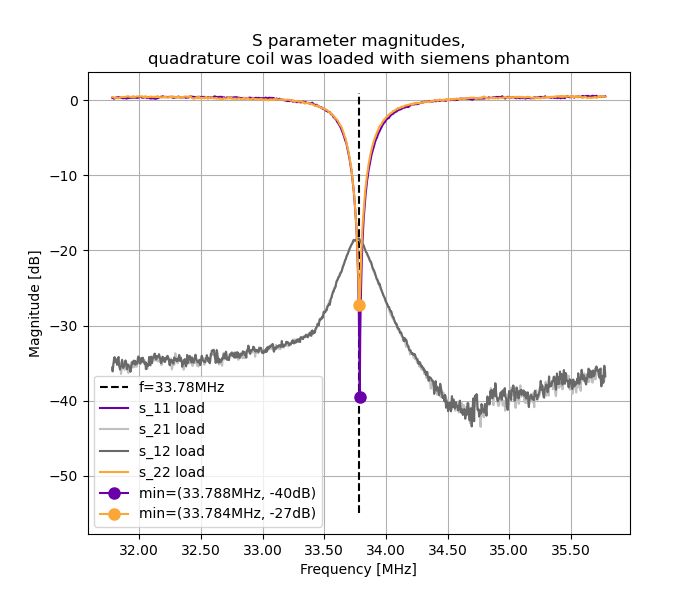
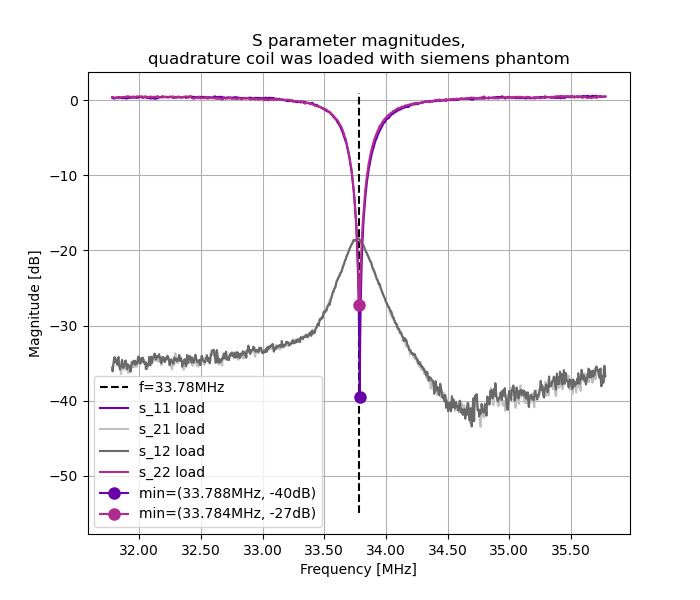
improved figures

diff --git a/nanoVNAplots.py b/nanoVNAplots.py
@@ -103,9 +103,9 @@ def plot_smith(ax, reals, ims, c, magn_db, fillstyle="full"):
     """ ax must be projection=smith """
     vals_s11 = (reals + ims * 1j)
     min_index = np.argmin(magn_db)
-    plots = ax.plot(vals_s11, markevery=1, datatype=SmithAxes.S_PARAMETER)
+    plots = ax.plot(vals_s11, markevery=1, datatype=SmithAxes.S_PARAMETER, markersize=1)
     plots[0].set(color=c)
-    plots = ax.plot(vals_s11[min_index], markevery=1, datatype=SmithAxes.S_PARAMETER, markersize=20, fillstyle=fillstyle)
+    plots = ax.plot(vals_s11[min_index], markevery=1, datatype=SmithAxes.S_PARAMETER, markersize=10, fillstyle=fillstyle)
     plots[0].set(color=c, marker="o", fillstyle=fillstyle)
 
 def find_mean_s11(num_files, file_path, filename, ending=".s1p", file_len = 301):
@@ -167,8 +167,8 @@ coils = [
      "file_loc": f"{folder_pocketvna}Enhancing/",
      "ymin": -5}
 ]
-c_load = "steelblue"
-c_noload = "orange"
+c_load = cmap(0.2)
+c_noload = cmap(0.8)
 loadfile = "siemens"
 noloadfile = "noload"
 
@@ -182,8 +182,8 @@ for coil in coils:
     fig = plt.figure(figsize=[10, 5])
     ax1 = fig.add_subplot(1,2,1)
     ax1.vlines(x=[33.78], ymin=coil["ymin"], ymax=1, colors="k", linestyles="--", label="f0=33.78MHz", zorder=0)
-    err_line1 = ax1.errorbar(freqs1, magn1_db, yerr=std_data1[3], zorder=1)
-    err_line2 = ax1.errorbar(freqs2, magn2_db, yerr=std_data2[3], zorder=1)
+    err_line1 = ax1.errorbar(freqs1, magn1_db, yerr=std_data1[3], zorder=1, color=c_load)
+    err_line2 = ax1.errorbar(freqs2, magn2_db, yerr=std_data2[3], zorder=1, color=c_noload)
     err_line1.set_label("loaded")
     err_line2.set_label("unloaded")
     ax1.grid(True)
@@ -191,14 +191,14 @@ for coil in coils:
     # Plotting smith charts
     min_index1 = plot_res(ax=ax1, magn_db=magn1_db, freqs=freqs1, color=c_load)
     plot_smith(ax=ax2, reals=reals1, ims=ims1, c=c_load, magn_db=magn1_db)
-    min_index2 = plot_res(ax=ax1, magn_db=magn2_db, freqs=freqs2, color=c_noload)
-    plot_smith(ax=ax2, reals=reals2, ims=ims2, c=c_noload, magn_db=magn2_db)
+    min_index2 = plot_res(ax=ax1, magn_db=magn2_db, freqs=freqs2, color=c_noload, fillstyle="left")
+    plot_smith(ax=ax2, reals=reals2, ims=ims2, c=c_noload, magn_db=magn2_db, fillstyle="left")
         
     ax1.legend()
     fig.suptitle(f"Laboratory tests of the {name} coil")
     ax1.set_title("|S11| magnitude")
     ax2.set_title("Real and imaginary impedance (Smith chart)")
-    plt.savefig(f's11 {name}.png', transparent=True)
+    #plt.savefig(f's11 {name}.png', transparent=True)
     print("STD of magnitude loaded = ", std_data1[3][min_index1-1:min_index1+2])
     print("STD of magnitude unloaded = ", std_data2[3][min_index2-1:min_index2+2])
 
@@ -217,7 +217,7 @@ plt.close("all")
 """ QUADRATURE COIL PLOTS AND MEASUREMENTS """
 # Demonstrate that the quadrature coil is a reciprocal network, meaning that the S_21 = S_12
 show_quad_plots = True
-save = True
+save = False
 print_impedance = False
 print_Qs_quad = True
 
@@ -231,7 +231,7 @@ figs = plt.figure(figsize=[7, 6]), plt.figure(figsize=[7, 6])
 smithfig = plt.figure(figsize=[6,6])
 smithax = smithfig.add_subplot(1,1,1, projection="smith")
 Qs = []
-colors = [cmap(0.2), "silver", "dimgray", cmap(0.8)]
+colors = [[cmap(0.2), "silver", "dimgray", cmap(0.4)], [cmap(0.6), "silver", "dimgray", cmap(0.8)]]
 loadTF = ["siemens phantom", "nothing"]
 for i, values in enumerate([values_loaded_quad, values_unloaded_quad]):
     print(f"*** Load = {loadTF[i]} ***")
@@ -246,16 +246,15 @@ for i, values in enumerate([values_loaded_quad, values_unloaded_quad]):
     else:
         names = ["s_11 no load", "s_21 no load", "s_12 no load", "s_22 no load"]
         fill="left"
-    plot_Sparams(ax=ax, freqs=freqs_q, s_magns_db=values[1], colors=colors, names=names)
-    min_i_first = plot_res(ax, magn_db=values[1][0], freqs=freqs_q, color=colors[0], fillstyle=fill)
-    min_i_switch = plot_res(ax, magn_db=values[1][3], freqs=freqs_q, color=colors[3], fillstyle=fill)
+    plot_Sparams(ax=ax, freqs=freqs_q, s_magns_db=values[1], colors=colors[i], names=names)
+    min_i_first = plot_res(ax, magn_db=values[1][0], freqs=freqs_q, color=colors[i][0], fillstyle=fill)
+    min_i_switch = plot_res(ax, magn_db=values[1][3], freqs=freqs_q, color=colors[i][3], fillstyle=fill)
     print(f"Minimums indexes = {min_i_first}, {min_i_switch}")
     ax.set_title(f"S parameter magnitudes,\nquadrature coil was loaded with {loadTF[i]}")
     ax.legend()
     if save:    
         figs[i].savefig(f"quad_magn_{i}.png", transparent=True)
-        if i ==1:
-            smithfig.savefig("quad_smith.png", transparent=True)
+        
 
     if print_impedance:
         print(f"Impedance [Ohm] at resonance for quadrature coils: ")
@@ -269,15 +268,17 @@ for i, values in enumerate([values_loaded_quad, values_unloaded_quad]):
     Qs.append((Q_switch+Q_first)/2)
 
     plot_smith(ax=smithax, reals=s_11s[1], ims=s_11s[2], 
-               c=colors[0], magn_db=(s_11s[3]), fillstyle=fill)
+               c=colors[i][0], magn_db=(s_11s[3]), fillstyle=fill)
     plot_smith(ax=smithax, reals=s_22s[1], ims=s_22s[2], 
-               c=colors[-1], magn_db=(s_22s[3]), fillstyle=fill)
+               c=colors[i][-1], magn_db=(s_22s[3]), fillstyle=fill)
     diffs = [freqs_q[i+1]-freqs_q[i] for i in range(len(freqs_q)-1)]
     mean_diff = np.mean(diffs)
     print(f"Uncertainties for magnitude with load {loadTF[i]} at resonance: ",
           f"\n> u_f0 = {mean_diff} MHz",
           f"\n> u_s11 = {values[2][0][min_i_first]:.1f} dB ",
           f"\n> u_s22 = {values[2][3][min_i_switch]:.1f} dB")
+    if save: 
+        smithfig.savefig("quad_smith.png", transparent=True)
 
 if print_Qs_quad:
     print("\nQ of quadrature coil:") 
